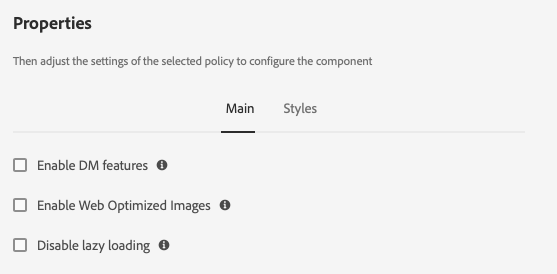
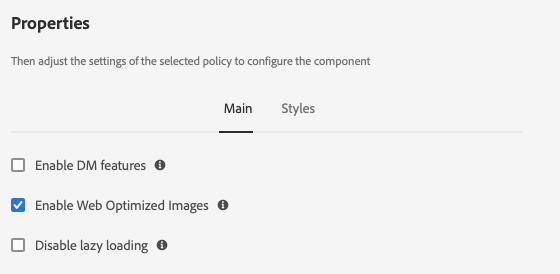
Updated previous version image and xlinked

diff --git a/help/components/v2/image.md b/help/components/v2/image.md
@@ -176,10 +176,10 @@ On the **Main** tab you can define a list of widths in pixels for the image and 
 
 In addition, you can define which general component options are automatically or disabled when the author adds the component to a page.
 
-![Image Component's design dialog main tab](/help/assets/image-design-main.png)
+![Image Component's design dialog main tab](/help/assets/image-design-main-v2.png)
 
 * **Enable DM features** - When checked, the enable [Dynamic Media features](#dynamic-media) are available.
-* **Enable Web Optimized Images** - When checked, the web-optimized image delivery service will deliver images in the WebP format, reducing image sizes on average by 25%.
+* **Enable Web Optimized Images** - When checked, the [web-optimized image delivery service](/help/developing/web-optimized-image-delivery.md) will deliver images in the WebP format, reducing image sizes on average by 25%.
   * This option is only available in AEMaaCS.
   * When unchecked or the web-optimized image delivery service is unavailable the [Adaptive Image Servlet](/help/developing/adaptive-image-servlet.md) is used.
 * **Enable lazy loading** - Define if the lazy loading option is automatically enabled when adding the image component to a page.  

diff --git a/help/components/v1/image-v1.md b/help/components/v1/image-v1.md
@@ -188,6 +188,10 @@ Tap or click the Add button to add another size.
 
 By default images loading is deferred until they become visible. Select the option **Disable lazy loading** to load the images upon page load.
 
+* **Enable Web Optimized Images** - When checked, the [web-optimized image delivery service](/help/developing/web-optimized-image-delivery.md) will deliver images in the WebP format, reducing image sizes on average by 25%.
+  * This option is only available in AEMaaCS.
+  * When unchecked or the web-optimized image delivery service is unavailable the [Adaptive Image Servlet](/help/developing/adaptive-image-servlet.md) is used.
+
 ### Features {#features}
 
 On the **Features** tab you can define which options are available to the content authors when using the component including upload options, orientation, and cropping options.
